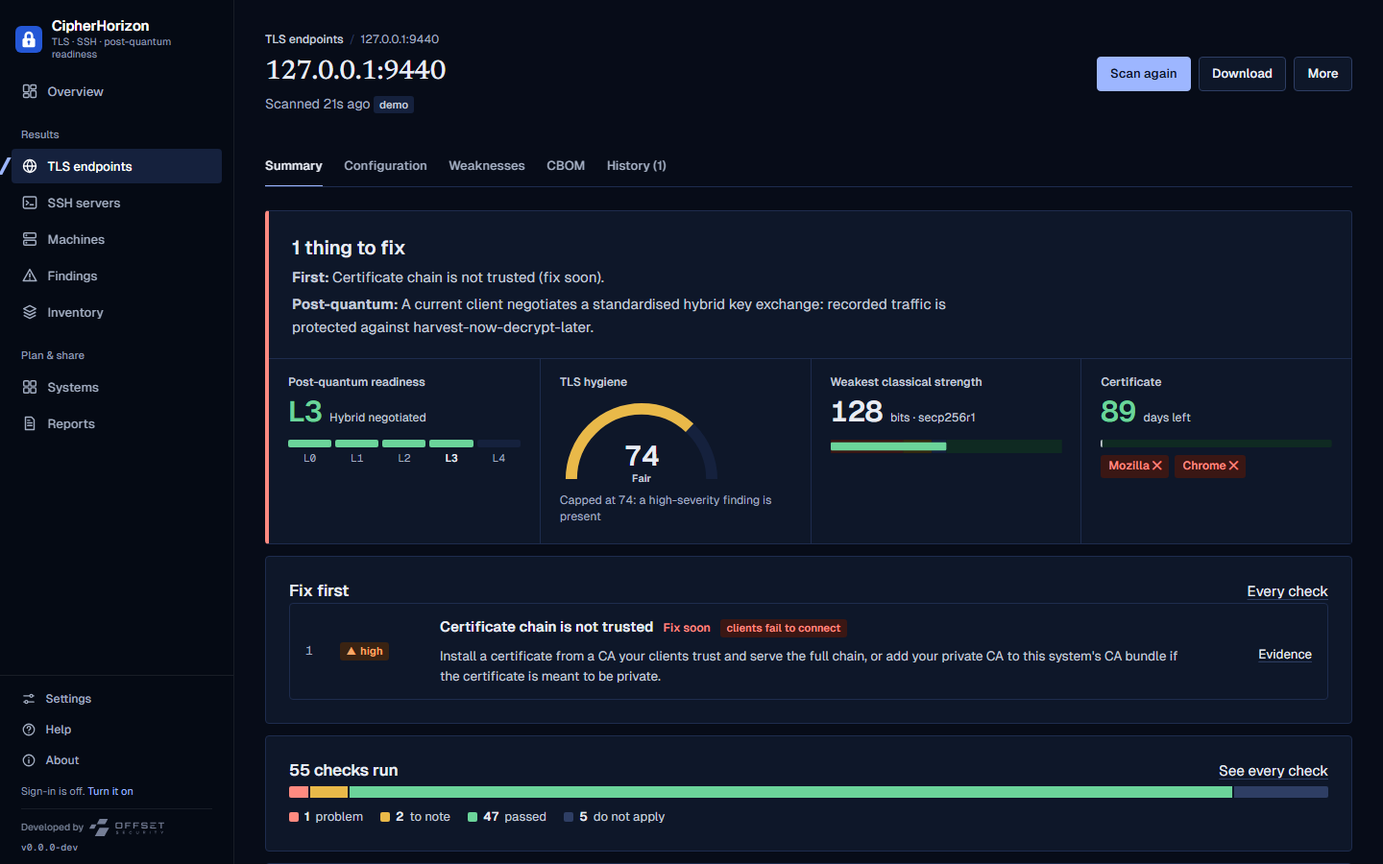
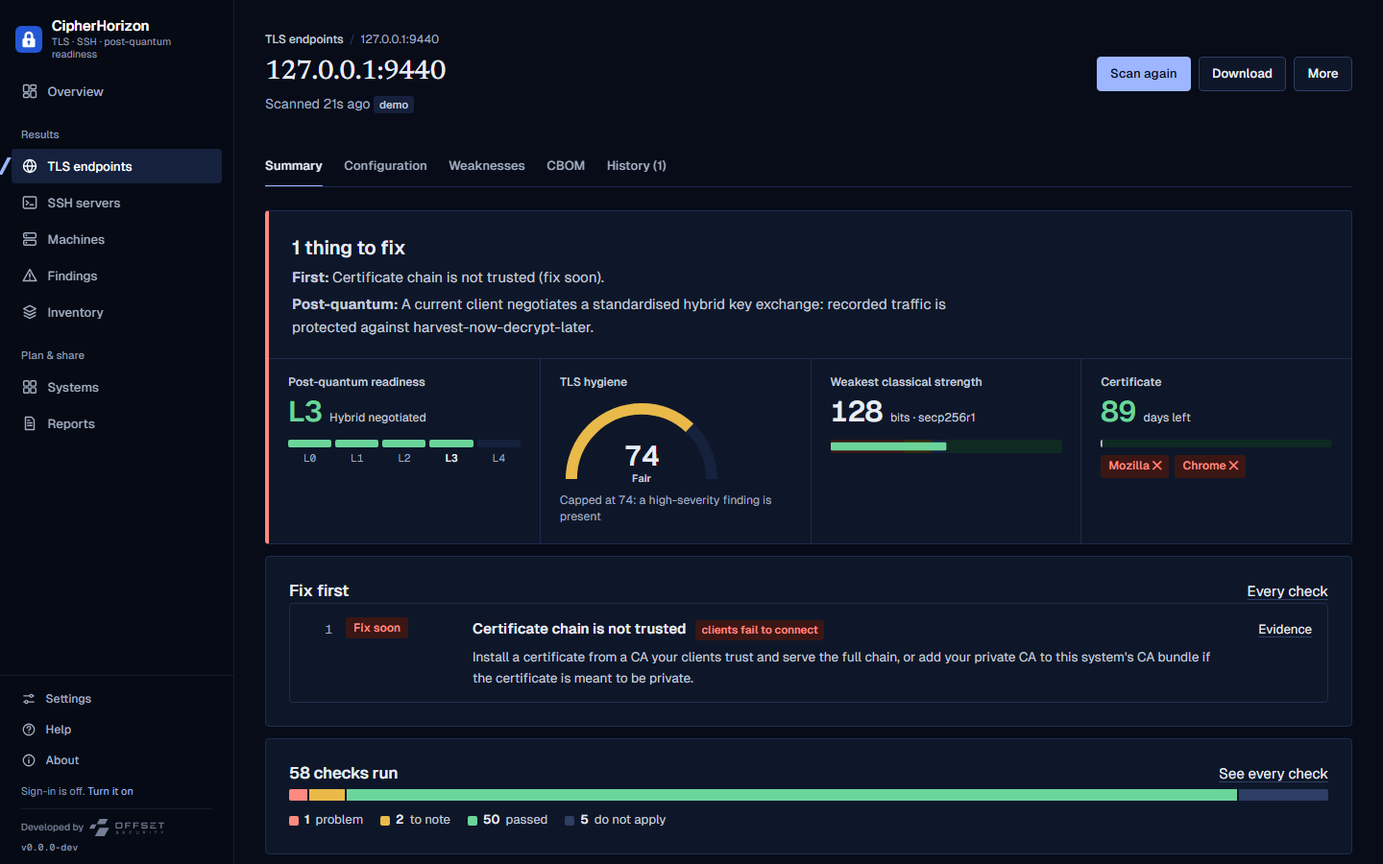
chore(release): 0.4.0 (#26)
* chore(release): 0.4.0

Unreleased becomes 0.4.0: classical strength for every algorithm
(PRD-010), algorithm classes (PRD-011), the X.509 viewer (PRD-012), the
TLS and SSH reports rebuilt as instruments (PRD-013, PRD-014) and the
accuracy fixes from real scans (PRD-015). Security first; the band rename
and eval/12 are marked Breaking for API consumers. The Quadlet unit and
the install and distribution docs name the 0.4.0 image.

* docs: README, Help and guides describe the 0.4.0 screens and checks

README: the one-page report (Summary with Fix first, Configuration with
folded TLS versions), 58 checks, reading the served certificate, naming
compromised roots and saying unknown for revocation; screenshots taken
again from the final build. Help: reading an SSH report, 58 checks,
revocation unknown. TLS and SSH guides and the methodology: how
certificates are read, the missing-issuer rule, compromised roots, DH
primality, revocation unknown, truncated MACs, the RSA rule that does not
apply, and the certificate page's order.

Changed region(s): [[0.1875, 0.7156, 0.9688, 0.9644], [0.1875, 0.9956, 0.9688, 1.0], [0.9062, 0.7156, 0.9375, 0.7778]]

diff --git a/web/static/js/views/help.js b/web/static/js/views/help.js
@@ -81,6 +81,7 @@ export async function render(root) {
       h('p', { class: 'callout' }, h('b', null, 'Scan only systems you own or are authorised to test. '), 'A scan makes a few hundred short TLS handshakes to its target and contacts nothing else.')),
     sec('ssh', 'Scan an SSH server',
       h('p', null, 'Type ', code('ssh://bastion.example.com'), ' or an address on port 22, or use ', h('b', null, 'SSH servers → Add SSH servers'), '. The report shows readiness, whether the server meets the SSH baseline (and the ', code('sshd_config'), ' lines that would make it), every check, the CBOM and history.'),
+      h('p', null, h('b', null, 'Reading an SSH report. '), 'The Summary shows readiness, the baseline, the weakest classical strength and the host key, then ', h('i', null, 'Fix first'), ', whose first line is meeting the baseline. Configuration reads in a reviewer’s order: what a current client gets, the version and software, key exchange, host keys (a card per key), ciphers, MACs and compression, and the baseline. Every algorithm is a row with its bits bar, its post-quantum mark for key exchange and host keys, and whether the baseline allows it; a row that should be off says why beside the mark.'),
       h('p', null, h('b', null, 'What is sent. '), 'One connection reads the server’s identification and its algorithm lists. One more negotiates as OpenSSH 10.6 would and, when it can, runs the key exchange to the server’s reply and checks its signature. Then one key exchange per host key type fetches each key. Every connection ends before any key is used: no login, no channel, never a password.'),
       h('p', null, h('b', null, 'Readiness. '), 'L1 when no post-quantum hybrid key exchange is offered; L3 when OpenSSH 10.6’s client gets one (', code('mlkem768x25519-sha256'), ', or ', code('sntrup761x25519-sha512'),
         ', which is noted as not a NIST standard); L4 with a post-quantum host key; L0 for an SSH-1-only server.'),
@@ -126,7 +127,7 @@ export async function render(root) {
           h('dd', null, b.allowed[k].map((e, i) => [i ? ', ' : '', code(e.name)]))])))) : []),
       h('p', { class: 'text-2' }, 'Every entry’s source and the OpenSSH version that first offers it: ', code('cipherhorizon ssh baselines'), '. The baseline is this product’s own; BSI TR-02102-4 is planned as a second one.')),
     sec('limits', 'What is and is not checked',
-      h('p', null, 'Every protocol from SSLv2 to TLS 1.3, every cipher suite and key-exchange group, the certificate chain against the bundled root stores, OCSP stapling, Certificate Transparency, and session features: 55 checks, each listed on the endpoint’s page as found, passed or not applicable.'),
+      h('p', null, 'Every protocol from SSLv2 to TLS 1.3, every cipher suite and key-exchange group, the certificate chain against the bundled root stores, OCSP stapling, Certificate Transparency, and session features: 58 checks, each listed on the endpoint’s page as found, passed or not applicable. Revocation is shown as status unknown unless the server staples a response that vouches for the certificate: this product never contacts the CA.'),
       h('p', null, h('b', null, 'One HTTP request. '), 'Every check exchanges only TLS handshake messages except one: after the handshake, a plain ', code('GET /'),
         ' is sent to read the ', code('Strict-Transport-Security'), ' header (at most 8 KiB, no body kept, no redirect followed). This server has it ',
         h('b', null, a.httpChecks === false ? 'off' : 'on'), '; ', code('--http-checks=false'), ' turns it off.'),

diff --git a/docs/tls-scanning.md b/docs/tls-scanning.md
@@ -21,11 +21,11 @@ CSVs), not from what a library happens to implement.
 | **Cipher suites** | Offer every candidate, note the server's pick, remove it, ask again until the server refuses. Yields the full set for each version. |
 | **Preference** | Adjacent pairs offered in reverse order. Same pick regardless of order → `server` (and ranks are reported); follows the client → `client`; both → `mixed`. No ranking is ever invented. |
 | **TLS 1.3 groups, incl. post-quantum** | A hello with an **empty `key_share`**: a supporting server must answer with a HelloRetryRequest that *names* its chosen group (and cipher suite). No key material is generated. Repeating with the pick removed enumerates every group, including `X25519MLKEM768`, the other ML-KEM hybrids, pure ML-KEM and the obsolete Kyber drafts. |
-| **TLS ≤1.2 key exchange** | ECDHE curves the same way, from the ServerKeyExchange; DHE prime size and a fingerprint of the prime. |
+| **TLS ≤1.2 key exchange** | ECDHE curves the same way, from the ServerKeyExchange; the DHE prime's size, a fingerprint of it, and whether it is prime and a safe prime (Miller-Rabin with 20 bases plus Baillie-PSW). |
 | **Signature schemes (TLS 1.3)** | One hello per scheme (ECDSA P-256/384/521, RSA-PSS, Ed25519, Ed448, ML-DSA-44/65/87), each offering only that scheme and carrying real key shares, so the server must pick a certificate before it answers: a ServerHello means it holds a key for that scheme. A control hello offering only a private-use code point must be refused; a server that answers it does not choose by scheme, and the stage is inconclusive. Every TLS 1.3 hello also offers ML-DSA, so a server whose only certificate is ML-DSA is seen. 15 connections. |
 | **Server features** | Read from hello extensions: secure renegotiation, extended master secret, tickets, encrypt-then-MAC, OCSP stapling; TLS compression; `TLS_FALLBACK_SCSV` enforcement. |
-| **Certificates & "what a real client gets"** | A full handshake with Go's `crypto/tls` (TLS 1.3 encrypts the Certificate message, so raw probes cannot see it), plus ECDSA-only and RSA-only TLS 1.2 handshakes to surface dual certificates, plus one handshake **without SNI** for a named target. Each chain is kept exactly as served (the DER of every certificate, in order), with the stapled OCSP response and the SCTs from the TLS extension. Trust is decided in evaluation, not here (see below). |
-| **Revocation & transparency** | No extra connection: the stapled OCSP response and the SCTs ride on the certificate handshakes. No OCSP responder, CRL or CT log is contacted. |
+| **Certificates & "what a real client gets"** | A full handshake with Go's `crypto/tls` (TLS 1.3 encrypts the Certificate message, so raw probes cannot see it), plus ECDSA-only and RSA-only TLS 1.2 handshakes to surface dual certificates, plus one handshake **without SNI** for a named target. A server whose only suites `crypto/tls` will not offer (3DES, RC4, NULL, small DH), or that keeps an RSA certificate for clients that offer only RSA, has its chain read instead from the plaintext Certificate message of the raw TLS 1.2-and-earlier hellos the suite enumeration already sends (source `raw-tlsv1.2`). Each chain is kept exactly as served (the DER of every certificate, in order), with the stapled OCSP response and the SCTs from the TLS extension. The no-SNI chain is described, never taken for the endpoint's certificate. Trust is decided in evaluation, not here (see below). |
+| **Revocation & transparency** | No extra connection: the stapled OCSP response and the SCTs ride on the certificate handshakes. No OCSP responder, CRL or CT log is contacted, so without a verified stapled response saying *good* the report says the revocation status is **unknown**, never *good*. |
 | **HTTP** | One `GET /` over a fresh TLS connection; the `Strict-Transport-Security` header is parsed (RFC 6797 §6.1). On by default; `--http-checks=false` turns it off. |
 
 Each stage is recorded in the report (`stages[]`): `done`, `skipped` (with a reason code: `option-off`,
@@ -44,13 +44,13 @@ when a CA bundle or the reference data changes, without a rescan. The stored rep
 
 | What | How |
 |---|---|
-| **Chain as served** | Analysed in served order: certificates out of order (TLS 1.2 requires the order, TLS 1.3 tolerates it), a root, duplicate or unrelated certificate sent, size in bytes. A **missing intermediate** is reported when only the leaf was served and its issuer is in no store; the AIA URL the certificate names is shown, never fetched. When the served path already ends at a CA certificate, the unknown issuer is reported as an unknown (often private) root instead. |
+| **Chain as served** | Analysed in served order: certificates out of order (TLS 1.2 requires the order, TLS 1.3 tolerates it), a root, duplicate or unrelated certificate sent, size in bytes. A **missing intermediate** is reported when the served path stops at a certificate that names where its issuer can be downloaded (AIA caIssuers, as public CAs' leaves do) and that issuer is in no store; the URL is shown, never fetched. When the path already ends at a CA certificate, or the leaf names no issuer URL (a leaf signed straight by a root), the issuer is reported as a root the stores do not hold: a private CA, or a public root since removed. A chain under a root whose private key is public (Superfish, eDellRoot, DSDTestProvider) is reported as such, critical. |
 | **Trust per store** | Path validation against bundled, dated snapshots of the **Mozilla** and **Chrome** root stores (CCADB), each reported separately, with the stores' own constraints: Mozilla's *distrust for TLS after*, Chrome's `sct_not_after`, program name constraints. Only the served certificates are intermediates: no AIA fetching, no system pool. A **private CA bundle** (server-wide `--ca-bundle FILE`, and per system on the system page) adds a "your CA bundle" row. The machine's own store is an optional extra (`--os-trust` on the CLI), off by default because some OS verifiers fetch missing intermediates from the network. |
 | **Names** | The host against the DNS and IP SANs (never the CN, RFC 9525), stating which SAN matched. |
 | **Lifetime** | Against the limit in force on the issue date (SC-081v3: 398 days, 200 from 2026-03-15, 100 from 2027-03-15, 47 from 2029-03-15), for publicly trusted chains only. The expiry warning scales with the lifetime. |
 | **OCSP staple** | Decoded by our own bounded parser: response and certificate status, revocation time and reason, this/next update, responder; the signature is checked against the issuer or a delegated responder; the response must be for this certificate (serial and issuer hashes). |
 | **CT** | SCTs from all three places (embedded, TLS extension, OCSP), each with its log named from the bundled CT log list. Signatures are not verified in this version. |
-| **DH groups** | The DHE prime fingerprint is matched against the RFC 2409, 3526, 5114 and 7919 groups. |
+| **DH groups** | The DHE prime fingerprint is matched against the RFC 2409, 3526, 5114 and 7919 groups. A modulus that is not prime is critical; a prime that is not a safe prime and not a published group is low (small subgroups exist). |
 | **Attack names** | Published attacks are labels on the finding that enables them (FREAK, Logjam, DROWN, POODLE, BEAST, SWEET32, CRIME, LUCKY13, RC4), never second findings. A key served on an SSLv2 endpoint anywhere in the estate is reported on every endpoint that serves it (DROWN). Active-only attacks (Heartbleed, CCS injection, ROBOT, Ticketbleed, padding oracles) are listed as *not tested by design*. |
 
 The reference lists, their sources, dates and licences are in [reference-data.md](reference-data.md).
@@ -115,8 +115,11 @@ rather than an invented one.
   OID when parseable, but a server presenting only such a chain will not yield a certificate result yet.
 - DH: the prime is matched against the RFC-published groups only; widely shipped non-RFC defaults are not
   recognised (no licence-clear list of them exists).
-- Revocation and CT are judged from what the server sends: no live OCSP/CRL lookup, no SCT signature check, no
-  count against a browser CT policy. These are planned as options, off by default.
+- Revocation and CT are judged from what the server sends: no live OCSP/CRL lookup (so revocation reads *unknown*
+  unless a stapled response vouches for the certificate), no SCT signature check, no count against a browser CT
+  policy. These are planned as options, off by default.
+- A scan made before 0.4.0 of a server Go's TLS client cannot reach recorded only the no-SNI certificate; scan it
+  again to read the served one.
 - Behavioural vulnerability probes (Heartbleed, ROBOT, CCS injection) are not implemented; when they are,
   they will be off by default.
 

diff --git a/CHANGELOG.md b/CHANGELOG.md
@@ -10,6 +10,13 @@ the CBOM/report/eval schema versions, the database) can change in a minor releas
 
 ## [Unreleased]
 
+## [0.4.0] - 2026-10-22
+
+### Security
+
+- Built with Go 1.27.3 (GO-2026-6809). `crypto/x509` now distrusts compromised intermediate certificates, and the
+  trust check uses it.
+
 ### Added
 
 - **Classical strength for every detected algorithm** ([PRD-010](docs/product/PRD-010-classical-strength.md),
@@ -56,12 +63,12 @@ the CBOM/report/eval schema versions, the database) can change in a minor releas
   strength bands, a strength chip, a part cell, a post-quantum glyph, a status tile, a validity bar, the hygiene
   gauge and the readiness stepper. Each says in words what it shows.
   - **Summary:** four figures (readiness, hygiene, the weakest classical strength, the certificate), *Fix first* as
-    one numbered line per problem, one bar of every check's result, and a tile per area that opens it.
+    the three things to fix first, each with one chip saying when, the rest folded under a line that counts them, one bar of every check's result, and a tile per area that opens it.
   - **Configuration** is one place to check the whole setup, in a reviewer's order: protocols and cipher suites
     (what a current client gets, then each version with its groups and its suites in the server's order), the
     certificate chain (each card opens its certificate; a missing issuer is drawn), key exchange and signatures,
-    revocation, protocol features, and every algorithm by class. Each version folds to one line when all its
-    suites are Strong, and opens when it needs a look. A row of chips at the top jumps to each part, and
+    revocation, protocol features, and every algorithm by class. Every TLS version starts folded to one line that
+    says whether it should be on and how its suites rate. A row of chips at the top jumps to each part, and
     each part ends with the issues found in it. HSTS shows the header as sent.
   - **Inventory:** algorithms *By class* and *By classical strength* (`?strength=`: broken, below-112, 112, 128,
     192, 256, not-rated), each bar opening its list; the list is weakest first, with a bits bar.
@@ -78,6 +85,9 @@ the CBOM/report/eval schema versions, the database) can change in a minor releas
 
 ### Changed
 
+- **Breaking (API):** the evaluation is now `eval/12`, and stored scans are re-evaluated on start. The `band` field
+  uses the new hygiene band names (below), and a section's `status` can be `unknown` (revocation, when nothing
+  vouches for the certificate). Integrations that match on band names or on the set of statuses must be updated.
 - **The TLS hygiene bands have new names:** Excellent, Good, Fair, Poor, Failing (they were Strong, Sound, Fair,
   Weak, Broken). *Strong* and *Weak* now mean only a suite's strength (UX-REVIEW-010, #22). The scores and the
   thresholds are unchanged. Stored scans are migrated, and the API's `band` field uses the new names.
@@ -111,10 +121,6 @@ the CBOM/report/eval schema versions, the database) can change in a minor releas
   - an untrusted root is described as a private CA or a public root since removed, not only as a private one;
   - a composite DH modulus is critical, and a DH prime that is not a safe prime is low;
   - at equal bits, the weakest classical strength picks a disallowed algorithm (3DES) over an allowed one.
-- **Fix first** shows the three things to fix first, each with one chip saying when, and folds the rest under one
-  line that counts them by severity.
-- **Every TLS version on Configuration starts folded**, its head saying whether it should be on and how its suites
-  rate; version heads, suite rows and Fix first rows line up.
 - **SSH evaluation (eval/11; stored scans are re-evaluated on start):**
   - a truncated MAC is as strong as its tag: hmac-sha1-96 is 96 bits, not 128 (NIST SP 800-107 Rev. 1);
   - the next steps name OpenSSH releases only to a server that identifies as OpenSSH;
@@ -123,15 +129,9 @@ the CBOM/report/eval schema versions, the database) can change in a minor releas
 - **Single-DES suites (56-bit key) are Insecure, not Weak** (#18).
 - **The TLS hygiene figure on a report's Summary opened *About this report*.** It now opens how the score was worked
   out, on Weaknesses.
-- **The browser journey retries a browser that does not start**, instead of failing the whole run.
 - **A running scan's connection count could go backwards.** Concurrent probes reported counts out of order, and
   progress writes could land out of order. The count now only moves forward, and writes are serialised. This was
   found by a CI run of the workflow test.
-
-### Security
-
-- Built with Go 1.27.3 (GO-2026-6809). `crypto/x509` now distrusts compromised intermediate certificates, and the
-  trust check uses it.
 
 ## [0.3.0] - 2026-10-17
 
@@ -874,7 +874,8 @@ the CBOM/report/eval schema versions, the database) can change in a minor releas
 - **Storage:** SQLite only. Up to 50 snapshots of up to 32 MiB are kept per machine; there is no overall storage
   budget yet.
 
-[Unreleased]: https://github.com/offsetsecurity/cipherhorizon/compare/v0.3.0...HEAD
+[Unreleased]: https://github.com/offsetsecurity/cipherhorizon/compare/v0.4.0...HEAD
+[0.4.0]: https://github.com/offsetsecurity/cipherhorizon/compare/v0.3.0...v0.4.0
 [0.3.0]: https://github.com/offsetsecurity/cipherhorizon/compare/v0.2.0...v0.3.0
 [0.2.0]: https://github.com/offsetsecurity/cipherhorizon/compare/v0.1.1...v0.2.0
 [0.1.1]: https://github.com/offsetsecurity/cipherhorizon/compare/v0.1.0...v0.1.1

diff --git a/README.md b/README.md
@@ -56,9 +56,11 @@ rules. Systems are ranked for migration by exposure and by how long their data m
 
 **Scanners that show their work.** The TLS scanner is its own wire implementation: every protocol from SSLv2 to
 TLS 1.3, every cipher suite and key-exchange group (including `X25519MLKEM768`), the signature schemes (ML-DSA
-included), the certificate chain against the bundled root stores, OCSP stapling, CT and HSTS. Its 55 checks each say
-what they found or that they passed, why it matters, what to do and their sources; the TLS hygiene score (0 to 100)
-shows its arithmetic. The SSH auditor reads what a server offers, negotiates as OpenSSH 10.6 would (ML-KEM hybrid
+included), the certificate chain against the bundled root stores, OCSP stapling, CT and HSTS. It reads the certificate
+a server really serves even when only legacy suites reach it, names a root whose private key is public, and says
+*unknown* for what it cannot know (revocation, without contacting the CA) instead of guessing. Its 58 checks each
+say what they found or that they passed, why it matters, what to do and their sources; the TLS hygiene score (0 to
+100) shows its arithmetic. The SSH auditor reads what a server offers, negotiates as OpenSSH 10.6 would (ML-KEM hybrid
 included), verifies every host key, and never logs in. It judges the server against a cited baseline and writes the
 `sshd_config` lines that would make it meet it. Both are checked against real servers: OpenSSL for trust, OpenSSH
 9.2 and 10.0 for SSH.
@@ -67,7 +69,7 @@ included), verifies every host key, and never logs in. It judges the server agai
 installing anything; CBOMs from other tools can be imported. TLS endpoints, SSH servers and machines merge into one
 CycloneDX 1.7 CBOM, with PDF reports for each endpoint and for the whole inventory, and the OMB M-23-02 items per system.
 
-| A TLS endpoint: verdict first, then every check | STARTTLS services, the same depth |
+| A TLS endpoint: where it stands, then the three things to fix first | STARTTLS services, the same depth |
 |---|---|
 | ![A TLS endpoint report: readiness L3, the TLS hygiene score, what to fix](docs/img/report-hybrid.png) | ![An SMTP endpoint scanned through STARTTLS](docs/img/report-starttls.png) |
 | **SSH servers: readiness and the baseline, never a score** | **The `sshd_config` lines that meet the baseline** |
@@ -77,9 +79,10 @@ CycloneDX 1.7 CBOM, with PDF reports for each endpoint and for the whole invento
 
 | | |
 |---|---|
-| **TLS endpoints** | Every protocol from SSLv2 to TLS 1.3, every cipher suite and key-exchange group (hybrids such as `X25519MLKEM768` included), the TLS 1.3 signature schemes (ML-DSA included), the certificate chain against the Mozilla and Chrome root stores or your own CA, OCSP stapling, Certificate Transparency and HSTS. STARTTLS for SMTP, IMAP, POP3, FTP, XMPP, LDAP and PostgreSQL. 55 cited checks and the TLS hygiene score. |
+| **TLS endpoints** | Every protocol from SSLv2 to TLS 1.3, every cipher suite and key-exchange group (hybrids such as `X25519MLKEM768` included), the TLS 1.3 signature schemes (ML-DSA included), the certificate chain against the Mozilla and Chrome root stores or your own CA, OCSP stapling, Certificate Transparency and HSTS; DH parameters tested for primality. STARTTLS for SMTP, IMAP, POP3, FTP, XMPP, LDAP and PostgreSQL. 58 cited checks and the TLS hygiene score. |
 | **SSH servers** | Identification and algorithm lists, negotiation as OpenSSH 10.6 would (the ML-KEM hybrid included), every host key fetched and verified (Ed25519, ECDSA, RSA, ML-DSA and the composite `ssh-mldsa44-ed25519`), 18 cited checks, and the CipherHorizon SSH baseline 2026 with the `sshd_config` lines to meet it. It never logs in. |
 | **Classical strength** | Every algorithm, key and cipher suite in bits, computed with NIST's own methods (the GNFS estimate for RSA and DH, half the order for curves, SP 800-57 for ciphers and hashes). A suite is as strong as its weakest part and names it, on the report, the PDF, the CLI, the Inventory, SSH reports and the CBOM (`classicalSecurityLevel`). Every algorithm is classed as asymmetric, symmetric or hash; each report shows every suite part by part and every algorithm by class, drawn as bits bars on one scale. |
+| **One page to check a setup** | Each report has a Summary (readiness, hygiene, the weakest strength and the certificate as figures, then the three things to fix first) and a Configuration that reads in a reviewer's order: every TLS version folded to one line that says whether it should be on and how its suites rate, opening to its suites part by part; the certificate chain; key exchange and signatures; revocation; protocol features; every algorithm by class. SSH reports read the same way, ending with the baseline and its `sshd_config` lines. |
 | **Certificates** | Open any certificate in a chain to read the whole X.509 document: its chain, validity, key and signature with their strengths, names and uses, every extension decoded, fingerprints, and the PEM to copy or download. |
 | **Post-quantum readiness** | L0 to L4 for every TLS endpoint and SSH server, each protocol by its own stated rules, with harvest-now-decrypt-later exposure. |
 | **Machines** | Two readable inventory scripts (PowerShell, shell) list a machine's cryptographic software and certificates; nothing is installed and no key material is read. |

diff --git a/docs/methodology.md b/docs/methodology.md
@@ -206,17 +206,19 @@ Every algorithm belongs to one class, from its CycloneDX primitive, and has a ro
 A TLS evaluation lists every algorithm the endpoint uses (`algorithms` in the API): its class, role, strength and
 post-quantum status, the suites or certificates that use it, and the weakest of each class. A hash is listed once per
 use, because its strength depends on the use: SHA-256 deriving keys is 256 bits, signing it is 128. The report's
-Configuration opens with this list (*Algorithms in use*); the PDF, `tls scan --details` and the Inventory's *Class*
-filter show the same classes.
+Configuration ends with this list (*Every algorithm, by class*: a lane per class, a bits bar per algorithm, the weakest
+ringed); the PDF, `tls scan --details` and the Inventory's *Class* filter show the same classes.
 
 ### One certificate, decoded (PRD-012)
 
-Every certificate in a report's *Chain as served*, its quick look and the CBOM tab opens the certificate's page,
+Every certificate in a report's certificate chain and the CBOM tab opens the certificate's page,
 `#/certificates/{sha256}`. The page is decoded from the DER the scan kept (`GET /api/v1/certificates/{sha256}/x509`), so
-an older scan gains it without a rescan. In order, it shows: identity, names, the public key (with its classical
-strength and post-quantum status), the signature (the weaker of its hash and the issuer's key), every extension with
-its criticality and decoded value (one this program does not decode is shown as OID and hex), the fingerprints (SHA-1
-as an identifier only) and the PEM, to copy or download. A certificate known only from a machine inventory or an
+an older scan gains it without a rescan. In order, it shows: the chain it was served in, its validity (days
+left on a lifetime bar), the public key and the issuer's signature as bits bars (the signature is the weaker of its hash
+and the issuer's key) with their post-quantum status, the names it is valid for and what it may be used for (an
+elliptic-curve key that claims key encipherment is marked, RFC 8813), every extension with its criticality and decoded
+value (one this program does not decode is shown as OID and hex), the identifiers to copy (SHA-256, the SPKI
+fingerprint, the serial, and SHA-1 as an identifier only) and the PEM, folded, to copy or download. A certificate known only from a machine inventory or an
 imported CBOM keeps no DER; its page shows the fields that source gave and says so. Every value comes from the
 certificate and is rendered as text.
 

diff --git a/docs/engineering/DISTRIBUTION.md b/docs/engineering/DISTRIBUTION.md
@@ -92,7 +92,7 @@ tar -xzf cipherhorizon_0.1.0_linux_amd64.tar.gz
 docker run -d --name cipherhorizon -p 8080:8080 \
   -e CIPHERHORIZON_TOKEN="$(openssl rand -hex 24)" \
   -v cipherhorizon-data:/data \
-  ghcr.io/offsetsecurity/cipherhorizon:0.3.0
+  ghcr.io/offsetsecurity/cipherhorizon:0.4.0
 
 # container, built locally (docker-compose.yml at the repository root)
 echo "CIPHERHORIZON_TOKEN=$(openssl rand -hex 24)" > .env
@@ -136,10 +136,10 @@ gh attestation verify cipherhorizon_0.1.0_linux_amd64.tar.gz --repo offsetsecuri
 
 **Container image:**
 ```sh
-cosign verify ghcr.io/offsetsecurity/cipherhorizon:0.3.0 \
+cosign verify ghcr.io/offsetsecurity/cipherhorizon:0.4.0 \
   --certificate-identity-regexp '^https://github.com/offsetsecurity/cipherhorizon/\.github/workflows/release\.yml@refs/tags/v' \
   --certificate-oidc-issuer https://token.actions.githubusercontent.com
-gh attestation verify oci://ghcr.io/offsetsecurity/cipherhorizon:0.3.0 --repo offsetsecurity/cipherhorizon
+gh attestation verify oci://ghcr.io/offsetsecurity/cipherhorizon:0.4.0 --repo offsetsecurity/cipherhorizon
 ```
 
 Air-gapped users: the archives are self-contained, so download on a connected machine, verify there, and move

diff --git a/docs/ssh-scanning.md b/docs/ssh-scanning.md
@@ -86,7 +86,12 @@ not on the list, so they should be off. A server whose lists couldn't be read is
 1. **A post-quantum hybrid key exchange is offered** (RFC 10042, RFC 9941).
 2. **Strict key exchange is offered.** This is OpenSSH's countermeasure to Terrapin (CVE-2023-48795), in OpenSSH 9.6
    and later.
-3. **RSA host keys are at least 3072 bits** (NIST SP 800-57 Part 1: 128-bit security).
+3. **RSA host keys are at least 3072 bits** (NIST SP 800-57 Part 1: 128-bit security). On a server with no RSA host
+   key this rule *does not apply*, rather than reading as met.
+
+A truncated MAC is rated by its tag: `hmac-sha1-96` is 96 bits, not HMAC-SHA-1's 128 (NIST SP 800-107 Rev. 1). The
+next steps and the changes name OpenSSH releases only to a server that identifies as OpenSSH; any other server is told
+what to offer.
 
 **What it leaves out, and why:**
 

diff --git a/docs/engineering/INSTALL.md b/docs/engineering/INSTALL.md
@@ -120,7 +120,7 @@ header lists the commands). The log goes to `~/Library/Logs/CipherHorizon/cipher
 ```sh
 docker run -d --name cipherhorizon --restart unless-stopped \
   -p 127.0.0.1:8080:8080 -v cipherhorizon-data:/data \
-  ghcr.io/offsetsecurity/cipherhorizon:0.3.0
+  ghcr.io/offsetsecurity/cipherhorizon:0.4.0
 ```
 
 Or, from a checkout, `docker compose up -d` ([docker-compose.yml](../../docker-compose.yml): read-only
